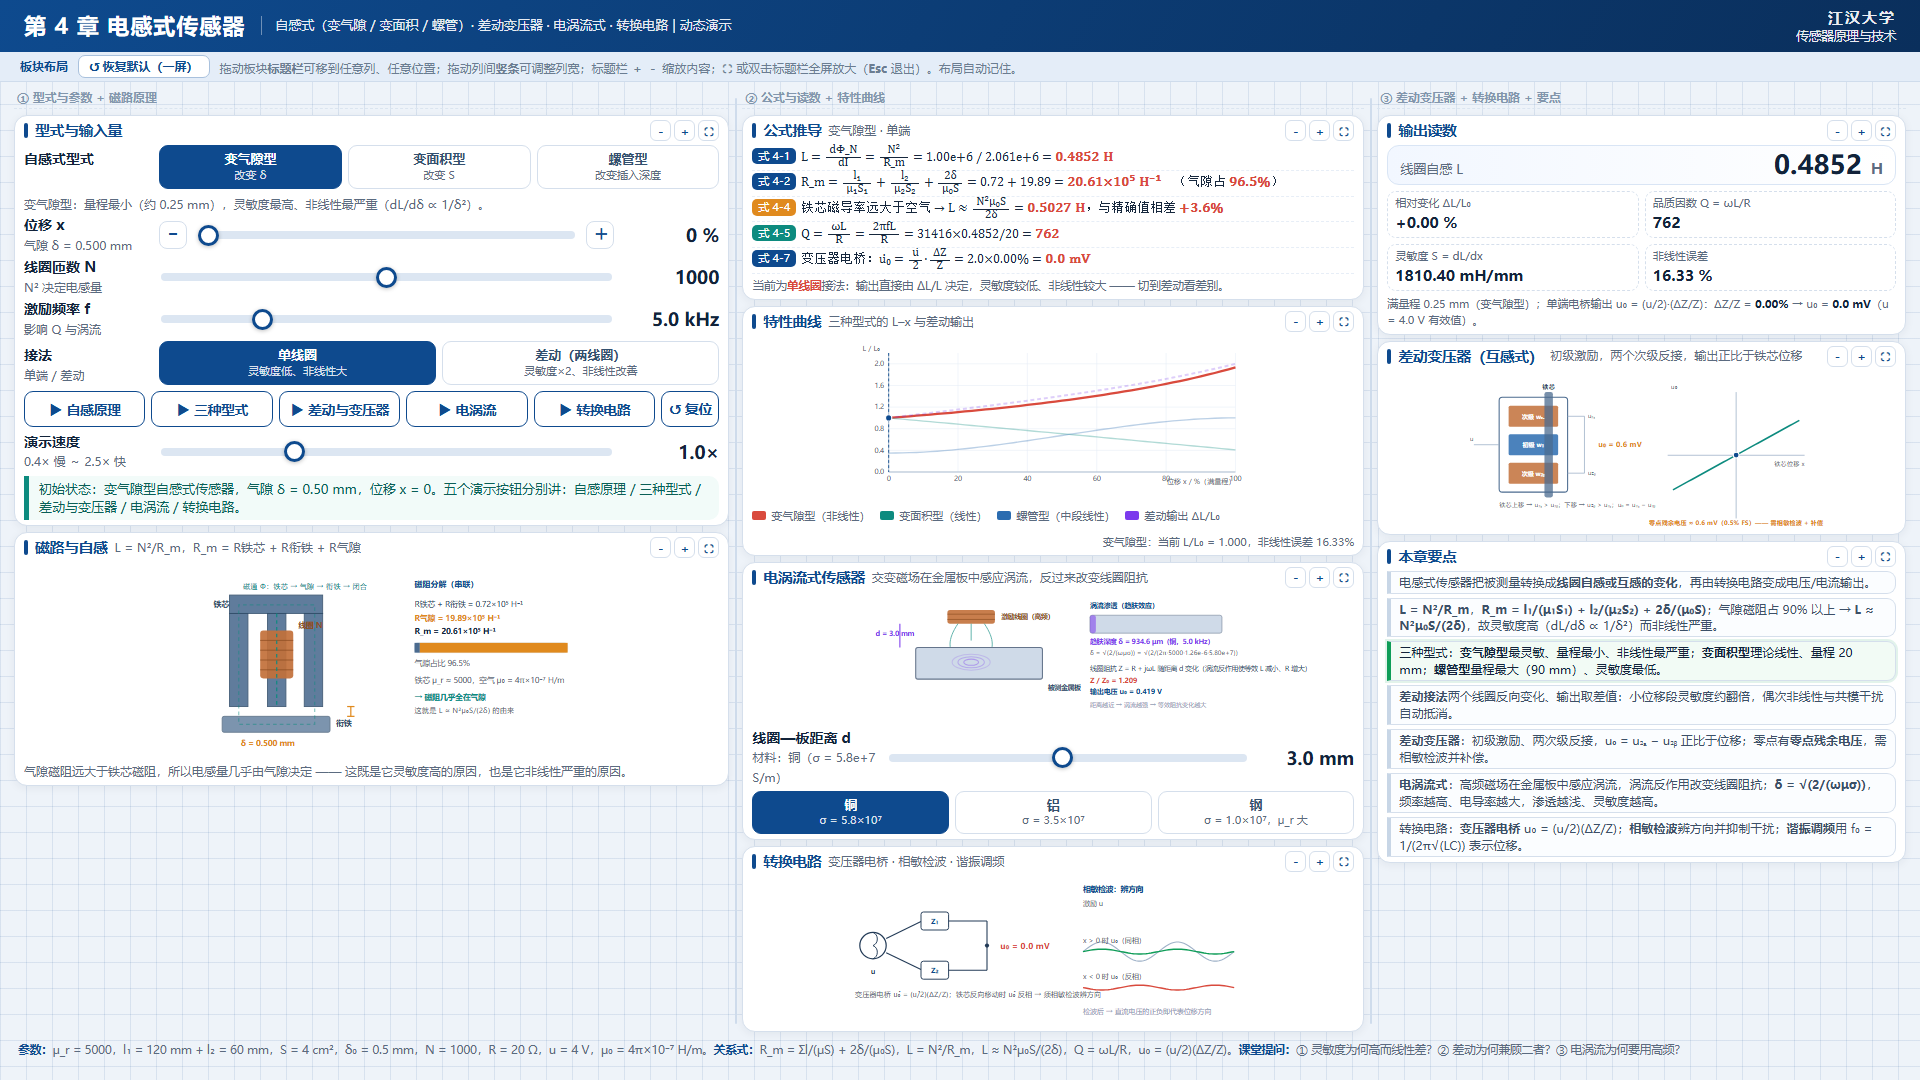
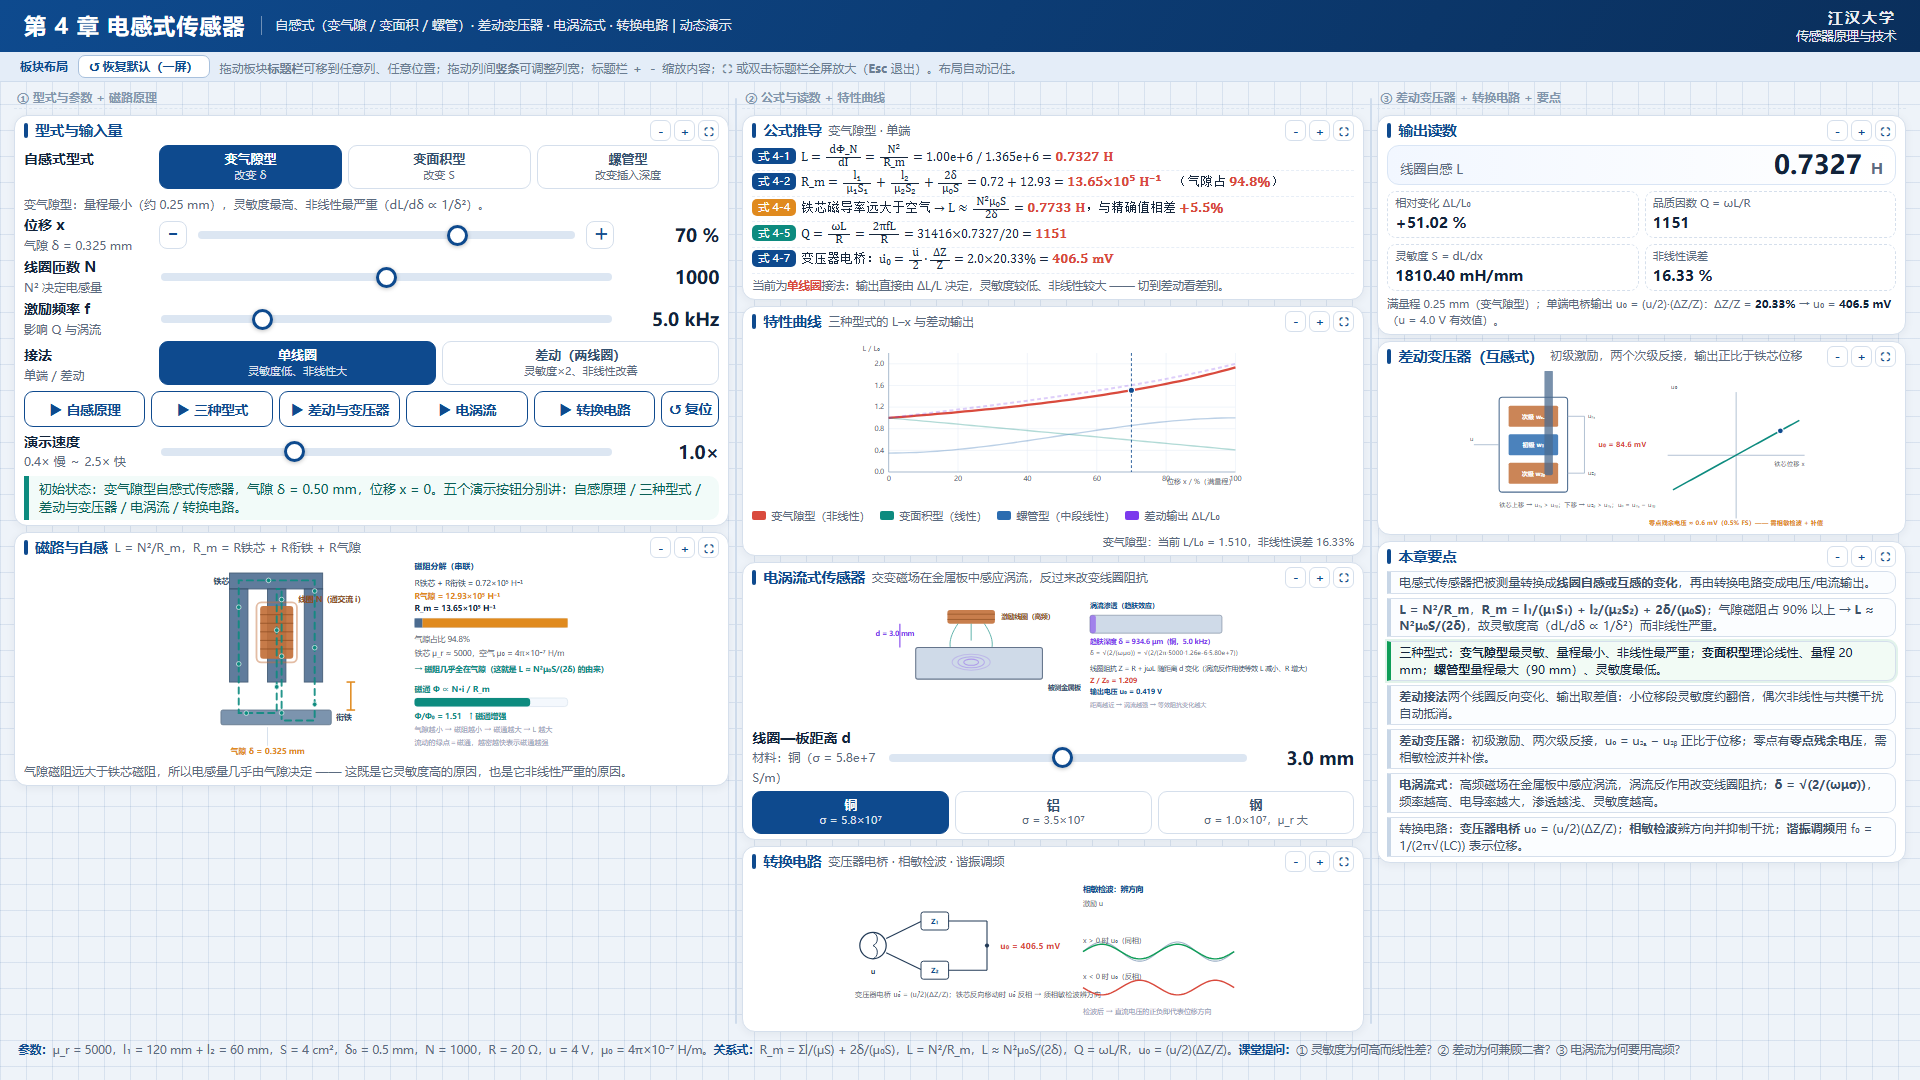
第4章：磁路与自感面板重做——磁通闭合回路流动动画（虚线+粒子）、衔铁行程放大约6倍、新增磁通量指示条，演示旁白同步

diff --git a/传感器原理及检测技术/第4章-电感式传感器-动态演示.html b/传感器原理及检测技术/第4章-电感式传感器-动态演示.html
@@ -233,30 +233,32 @@
       <svg id="mag" viewBox="0 0 700 320" role="img" aria-label="自感式传感器磁路示意">
         <!-- 变气隙型 -->
         <g id="stGap">
-          <rect x="118" y="54" width="152" height="30" fill="var(--iron)" opacity=".88" stroke="#2f4b68" stroke-width="1.5"/>
-          <rect x="118" y="84" width="30" height="152" fill="var(--iron)" opacity=".88" stroke="#2f4b68" stroke-width="1.5"/>
-          <rect x="180" y="84" width="30" height="152" fill="var(--iron)" opacity=".88" stroke="#2f4b68" stroke-width="1.5"/>
-          <rect x="240" y="84" width="30" height="152" fill="var(--iron)" opacity=".88" stroke="#2f4b68" stroke-width="1.5"/>
-          <text x="92" y="74" font-size="12.5" font-weight="700" fill="#2f4b68">铁芯</text>
+          <!-- 铁芯：上轭 + 三条腿（腿下沿 y=196，衔铁在其下方随气隙移动） -->
+          <rect x="118" y="18" width="152" height="26" fill="var(--iron)" opacity=".88" stroke="#2f4b68" stroke-width="1.5"/>
+          <rect x="118" y="44" width="30" height="152" fill="var(--iron)" opacity=".88" stroke="#2f4b68" stroke-width="1.5"/>
+          <rect x="180" y="44" width="30" height="152" fill="var(--iron)" opacity=".88" stroke="#2f4b68" stroke-width="1.5"/>
+          <rect x="240" y="44" width="30" height="152" fill="var(--iron)" opacity=".88" stroke="#2f4b68" stroke-width="1.5"/>
+          <text x="92" y="36" font-size="12.5" font-weight="700" fill="#2f4b68">铁芯</text>
+          <!-- 线圈（套在中腿）＋ 激励脉冲 -->
+          <rect id="coilPulse" x="162" y="66" width="66" height="98" rx="8" fill="none" stroke="var(--cu)" stroke-width="3" opacity="0"/>
           <g id="coilGap">
-            <rect x="168" y="112" width="54" height="78" rx="5" fill="var(--cu)" opacity=".92"/>
+            <rect x="168" y="72" width="54" height="86" rx="5" fill="var(--cu)" opacity=".92"/>
+            <line x1="168" y1="86" x2="222" y2="86" stroke="#8c4d22" stroke-width="1.2"/>
+            <line x1="168" y1="100" x2="222" y2="100" stroke="#8c4d22" stroke-width="1.2"/>
+            <line x1="168" y1="114" x2="222" y2="114" stroke="#8c4d22" stroke-width="1.2"/>
             <line x1="168" y1="128" x2="222" y2="128" stroke="#8c4d22" stroke-width="1.2"/>
-            <line x1="168" y1="144" x2="222" y2="144" stroke="#8c4d22" stroke-width="1.2"/>
-            <line x1="168" y1="160" x2="222" y2="160" stroke="#8c4d22" stroke-width="1.2"/>
-            <line x1="168" y1="176" x2="222" y2="176" stroke="#8c4d22" stroke-width="1.2"/>
+            <line x1="168" y1="142" x2="222" y2="142" stroke="#8c4d22" stroke-width="1.2"/>
           </g>
-          <text x="230" y="108" font-size="12.5" font-weight="700" fill="#8c4d22">线圈 N</text>
-          <rect id="armGap" x="106" y="249" width="176" height="26" rx="3" fill="var(--iron)" opacity=".72" stroke="#2f4b68" stroke-width="1.5"/>
-          <text x="292" y="267" font-size="12.5" font-weight="700" fill="#2f4b68">衔铁</text>
-          <!-- 气隙标注 -->
-          <line id="gapDim" x1="316" y1="236" x2="316" y2="249" stroke="var(--gapm)" stroke-width="2"/>
-          <line x1="310" y1="236" x2="322" y2="236" stroke="var(--gapm)" stroke-width="2"/>
-          <line id="gapDimB" x1="310" y1="249" x2="322" y2="249" stroke="var(--gapm)" stroke-width="2"/>
-          <text id="gapTxt" x="180" y="300" text-anchor="middle" font-size="12.5" font-weight="700" fill="var(--gapm)">气隙 δ = 0.500 mm</text>
-          <!-- 磁通路径 -->
-          <path id="fluxPath" d="M195 84 V236" stroke="var(--flux)" stroke-width="2" stroke-dasharray="6 5" fill="none" opacity=".95"/>
-          <path id="fluxPath2" d="M195 262 H133 V70 H257 V262 H195" stroke="var(--flux)" stroke-width="2" stroke-dasharray="6 5" fill="none" opacity=".45"/>
-          <text x="140" y="44" font-size="12" fill="var(--flux)">磁通 Φ：铁芯 → 气隙 → 衔铁 → 闭合</text>
+          <text x="230" y="66" font-size="12.5" font-weight="700" fill="#8c4d22">线圈 N（通交流 i）</text>
+          <!-- 衔铁：随气隙上下移动（行程放大约 6 倍） -->
+          <rect id="armGap" x="104" y="204" width="180" height="24" rx="3" fill="var(--iron)" opacity=".72" stroke="#2f4b68" stroke-width="1.5"/>
+          <text id="armTxt" x="292" y="220" font-size="12.5" font-weight="700" fill="#2f4b68">衔铁</text>
+          <!-- 气隙尺寸 -->
+          <line id="gapDim" x1="316" y1="196" x2="316" y2="204" stroke="var(--gapm)" stroke-width="2.5"/>
+          <line id="gapTick1" x1="309" y1="196" x2="323" y2="196" stroke="var(--gapm)" stroke-width="2.5"/>
+          <line id="gapDimB" x1="309" y1="204" x2="323" y2="204" stroke="var(--gapm)" stroke-width="2.5"/>
+          <line id="gapLead" x1="180" y1="292" x2="180" y2="300" stroke="#c9d6e6" stroke-width="1.2"/>
+          <text id="gapTxt" x="180" y="314" text-anchor="middle" font-size="13" font-weight="700" fill="var(--gapm)">气隙 δ = 0.500 mm</text>
         </g>
         <!-- 变面积型 -->
         <g id="stArea" style="display:none">
@@ -303,19 +305,32 @@
           <text id="solTxt" x="338" y="134" font-size="12.5" font-weight="700" fill="var(--gapm)">x = 0</text>
           <text x="150" y="288" font-size="12" fill="#5b6b80">插入越深 → 磁路磁阻越小 → L 越大（中段线性最好）</text>
         </g>
-        <!-- 右侧：磁阻分解 -->
-        <g transform="translate(420,40)">
+        <!-- 磁通闭合回路（动画：流动虚线 + 移动粒子） -->
+        <path id="loopGap" d="" fill="none" stroke="var(--flux)" stroke-width="3.2" stroke-dasharray="10 8"
+              stroke-linecap="round" opacity=".9"/>
+        <path id="loopArea" d="" fill="none" stroke="var(--flux)" stroke-width="3.2" stroke-dasharray="10 8"
+              stroke-linecap="round" opacity=".9" style="display:none"/>
+        <path id="loopSol" d="" fill="none" stroke="var(--flux)" stroke-width="3.2" stroke-dasharray="10 8"
+              stroke-linecap="round" opacity=".9" style="display:none"/>
+        <g id="fluxDots"></g>
+        <!-- 右侧：磁阻分解 + 磁通量 -->
+        <g transform="translate(420,12)">
           <text x="0" y="0" font-size="13" font-weight="700" fill="#0e4a8e">磁阻分解（串联）</text>
-          <text id="rmFe" x="0" y="34" font-size="12.5" fill="#2f4b68">R铁芯 + R衔铁 = 0</text>
-          <text id="rmGap" x="0" y="56" font-size="12.5" font-weight="700" fill="var(--gapm)">R气隙 = 0</text>
-          <text id="rmTot" x="0" y="78" font-size="12.5" font-weight="700" fill="#12233a">R_m = 0</text>
-          <rect x="0" y="92" width="250" height="16" rx="5" fill="#f4f8fd" stroke="#d5dfec"/>
-          <rect id="barFe" x="0" y="92" width="0" height="16" fill="#4b6b8f"/>
-          <rect id="barGap" x="0" y="92" width="0" height="16" fill="var(--gapm)"/>
-          <text id="gapShare" x="0" y="130" font-size="12.5" fill="#5b6b80">气隙占比 —</text>
-          <text x="0" y="158" font-size="12.5" fill="#5b6b80">铁芯 μ_r ≈ 5000，空气 μ₀ = 4π×10⁻⁷ H/m</text>
-          <text x="0" y="186" font-size="12.5" font-weight="700" fill="var(--flux)">→ 磁阻几乎全在气隙</text>
-          <text x="0" y="206" font-size="12" fill="#5b6b80">这就是 L ≈ N²μ₀S/(2δ) 的由来</text>
+          <text id="rmFe" x="0" y="28" font-size="12.5" fill="#2f4b68">R铁芯 + R衔铁 = 0</text>
+          <text id="rmGap" x="0" y="48" font-size="12.5" font-weight="700" fill="var(--gapm)">R气隙 = 0</text>
+          <text id="rmTot" x="0" y="68" font-size="12.5" font-weight="700" fill="#12233a">R_m = 0</text>
+          <rect x="0" y="80" width="250" height="15" rx="5" fill="#f4f8fd" stroke="#d5dfec"/>
+          <rect id="barFe" x="0" y="80" width="0" height="15" fill="#4b6b8f"/>
+          <rect id="barGap" x="0" y="80" width="0" height="15" fill="var(--gapm)"/>
+          <text id="gapShare" x="0" y="118" font-size="12.5" fill="#5b6b80">气隙占比 —</text>
+          <text x="0" y="142" font-size="12.5" fill="#5b6b80">铁芯 μ_r ≈ 5000，空气 μ₀ = 4π×10⁻⁷ H/m</text>
+          <text x="0" y="168" font-size="12.5" font-weight="700" fill="var(--flux)">→ 磁阻几乎全在气隙（这就是 L ≈ N²μ₀S/(2δ) 的由来）</text>
+          <text x="0" y="200" font-size="13" font-weight="700" fill="var(--flux)">磁通 Φ ∝ N·i / R_m</text>
+          <rect x="0" y="210" width="250" height="14" rx="5" fill="#f4f8fd" stroke="#d5dfec"/>
+          <rect id="fluxBar" x="0" y="210" width="0" height="14" rx="5" fill="var(--flux)"/>
+          <text id="fluxTxt" x="0" y="244" font-size="12.5" font-weight="700" fill="var(--flux)">Φ/Φ₀ = 1.00</text>
+          <text x="0" y="266" font-size="11.5" fill="#94a3b8">气隙越小 → 磁阻越小 → 磁通越大 → L 越大</text>
+          <text x="0" y="286" font-size="11.5" fill="#94a3b8">流动的绿点＝磁通，越密越快表示磁通越强</text>
         </g>
       </svg>
       <div class="hint" id="magHint">气隙磁阻远大于铁芯磁阻，所以电感量几乎由气隙决定 —— 这既是它灵敏度高的原因，也是它非线性严重的原因。</div>
@@ -626,6 +641,90 @@
     return { skin:skin, k:k, dZ:dZ, u0:u0, sigma:sigma, mur:mur, mat:m };
   }
 
+  /* ============ 2b. 磁通流动动画 ============ */
+  var FLUX = { L:0, t:0, target:1, els:null, path:null };
+  /* 闭合磁通回路：中腿下行 → 穿气隙 → 衔铁 → 外腿 → 上轭 → 回中腿 */
+  function gapLoop(yArm){
+    var y1 = 196, yA = yArm + 5, yB = yArm + 17;
+    return 'M195 44 V' + y1 + ' L195 ' + yA + ' L133 ' + yA + ' L133 30 L257 30 L257 ' + yB +
+           ' L203 ' + yB + ' L203 ' + y1 + ' V44 Z';
+  }
+  function solLoop(yTop, depth){
+    var yb = yTop + depth - 6;
+    return 'M206 ' + (yTop - 6) + ' V' + yb + ' L180 ' + yb + ' L180 86 L240 86 L240 ' + yb +
+           ' L214 ' + yb + ' L214 ' + (yTop - 6) + ' Z';
+  }
+  function activeLoopEl(){
+    return S.type === 'solenoid' ? $('loopSol') : (S.type === 'area' ? $('loopArea') : $('loopGap'));
+  }
+  function setFluxPath(){
+    var yArm = parseFloat($('armGap').getAttribute('y')) || 204;
+    var yTop = parseFloat($('plunger').getAttribute('y')) || 70;
+    var depth = parseFloat($('plunger').getAttribute('height')) || 120;
+    $('loopGap').style.display  = (S.type === 'gap') ? '' : 'none';
+    $('loopArea').style.display = (S.type === 'area') ? '' : 'none';
+    $('loopSol').style.display  = (S.type === 'solenoid') ? '' : 'none';
+    var p = activeLoopEl();
+    p.setAttribute('d', S.type === 'solenoid' ? solLoop(yTop, depth) : gapLoop(S.type === 'area' ? 249 : yArm));
+    FLUX.path = p;
+    try { FLUX.L = p.getTotalLength(); } catch (e) { FLUX.L = 0; }
+  }
+  /* 相对磁通：Φ ∝ N·i/R_m，且 L = N²/R_m ⇒ Φ/Φ₀ = L/L₀ */
+  function fluxRatio(){
+    var L = selfL(S.type, S.x/100, S.N).L, L0 = selfL(S.type, 0, S.N).L;
+    return L0 > 0 ? L/L0 : 1;
+  }
+  function paintFluxGauge(){
+    var f = fluxRatio();
+    FLUX.target = f;
+    var w = Math.max(6, Math.min(250, f/2*250));
+    $('fluxBar').setAttribute('width', w.toFixed(1));
+    $('fluxTxt').textContent = 'Φ/Φ₀ = ' + f.toFixed(2) + (f > 1.02 ? '　↑ 磁通增强' : (f < 0.98 ? '　↓ 磁通减弱' : '　（基准）'));
+  }
+  function initFlux(){
+    var g = $('fluxDots'), html = '', i;
+    for (i = 0; i < 12; i++){
+      html += '<circle r="3.8" fill="#0d8b7f" stroke="#fff" stroke-width="1.1" opacity=".95"/>';
+    }
+    g.innerHTML = html;
+    FLUX.els = g.querySelectorAll('circle');
+    /* 先摆好初始位置，避免首帧之前粒子挤在原点 */
+    setFluxPath();
+    if (FLUX.path && FLUX.L > 0 && FLUX.path.getPointAtLength){
+      for (i = 0; i < FLUX.els.length; i++){
+        var pt0 = FLUX.path.getPointAtLength(i/FLUX.els.length*FLUX.L);
+        FLUX.els[i].setAttribute('cx', pt0.x.toFixed(1));
+        FLUX.els[i].setAttribute('cy', pt0.y.toFixed(1));
+      }
+    }
+  }
+  function runFlux(){
+    var last = performance.now();
+    (function loop(now){
+      var dt = Math.min(60, now - last); last = now;
+      var f = Math.max(0.15, Math.min(2.2, FLUX.target || 1));
+      var speed = 0.30 + 0.55*f;                       /* 磁通越大，流动越快 */
+      FLUX.t = (FLUX.t + dt*speed/1500) % 1;
+      if (FLUX.path){
+        FLUX.path.setAttribute('stroke-dashoffset', (-FLUX.t*FLUX.L*2).toFixed(1));
+        if (FLUX.els && FLUX.L > 0 && FLUX.path.getPointAtLength){
+          var n = FLUX.els.length, i, pt;
+          for (i = 0; i < n; i++){
+            pt = FLUX.path.getPointAtLength((((FLUX.t*1 + i/n) % 1) + 1) % 1 * FLUX.L);
+            FLUX.els[i].setAttribute('cx', pt.x.toFixed(1));
+            FLUX.els[i].setAttribute('cy', pt.y.toFixed(1));
+            FLUX.els[i].setAttribute('opacity', (0.55 + 0.4*Math.min(1, f/1.4)).toFixed(2));
+          }
+        }
+      }
+      /* 线圈激励脉冲：磁通越大越亮 */
+      var p = 0.5 + 0.5*Math.sin(now/420);
+      var c = $('coilPulse');
+      if (c) c.setAttribute('opacity', (0.06 + 0.30*p*Math.min(1.4, f)).toFixed(3));
+      requestAnimationFrame(loop);
+    })(performance.now());
+  }
+
   /* ============ 3. 主刷新 ============ */
   function paint(){
     var r = selfL(S.type, S.x/100, S.N);
@@ -666,14 +765,17 @@
     $('stArea').style.display = (S.type === 'area') ? '' : 'none';
     $('stSol').style.display = (S.type === 'solenoid') ? '' : 'none';
     if (S.type === 'gap'){
-      var gapPx = Math.max(3, Math.min(16, 16*(r.delta/CFG.d0)));   /* 视觉气隙高度 */
-      var yArm = 236 + gapPx, yArmB = yArm + 26;
+      /* 视觉气隙：8 ~ 66 px（放大约 6 倍，便于观察） */
+      var gapPx = 8 + 58*(r.delta/CFG.d0);
+      var yArm = 196 + gapPx, yArmB = yArm + 24;
       $('armGap').setAttribute('y', yArm.toFixed(1));
-      $('gapDim').setAttribute('y1', '236'); $('gapDim').setAttribute('y2', yArm.toFixed(1));
+      $('armTxt').setAttribute('y', (yArm + 16).toFixed(1));
+      $('gapDim').setAttribute('y1', '196'); $('gapDim').setAttribute('y2', yArm.toFixed(1));
+      $('gapTick1').setAttribute('y1', '196'); $('gapTick1').setAttribute('y2', '196');
       $('gapDimB').setAttribute('y1', yArm.toFixed(1)); $('gapDimB').setAttribute('y2', yArm.toFixed(1));
-      $('gapTxt').setAttribute('y', (yArmB + 22).toFixed(1));
-      $('gapTxt').textContent = 'δ = ' + (r.delta*1000).toFixed(3) + ' mm';
-      $('fluxPath2').setAttribute('d', 'M195 ' + (yArm + 13).toFixed(0) + ' H133 V70 H257 V' + (yArm + 13).toFixed(0) + ' H195');
+      $('gapLead').setAttribute('y1', (yArmB + 4).toFixed(1));
+      $('gapLead').setAttribute('y2', '300');
+      $('gapTxt').textContent = '气隙 δ = ' + (r.delta*1000).toFixed(3) + ' mm';
     } else if (S.type === 'area'){
       var wOver = 152*(1 - 0.6*(S.x/100));
       wOver = Math.max(6, wOver);
@@ -693,6 +795,8 @@
       $('plungerTxt').setAttribute('y', '64');
       $('solTxt').textContent = 'x = ' + (S.x*0.9).toFixed(0) + ' mm';
     }
+    setFluxPath();
+    paintFluxGauge();
 
     /* --- 磁阻分解 --- */
     var R = reluc(r.delta, r.Sarea, S.N);
@@ -1026,8 +1130,9 @@
     say('【<b>自感式原理</b>】先看磁路：R_m = R铁芯 + R衔铁 + R气隙。铁芯 μ_r = 2000，空气 μ₀ 只有它的 1/2000，所以气隙磁阻占了 <b>' +
         (R.Rgap/R.Rm*100).toFixed(1) + '%</b>。L = N²/R_m = <b>' + r.L.toFixed(4) + ' H</b>。');
     if (!await sleep(3400, tok)) return;
-    say('① <b>衔铁靠近、气隙减小</b>（δ 从 ' + (CFG.d0*1000).toFixed(2) + ' mm → ' + (CFG.dMin*1000).toFixed(2) +
-        ' mm，行程 ' + ((CFG.d0-CFG.dMin)*1e6).toFixed(0) + ' μm）：气隙磁阻急剧下降 → L 迅速上升。注意 L 与 δ <b>成反比</b>，所以位移与输出<b>不是线性关系</b>。');
+    say('① 注意看：<b>绿色小点就是磁通</b>，它沿铁芯 → 气隙 → 衔铁 → 闭合回路不断流动，流动越快表示磁通越强。现在<b>衔铁靠近、气隙减小</b>（δ ' +
+        (CFG.d0*1000).toFixed(2) + ' mm → ' + (CFG.dMin*1000).toFixed(2) + ' mm，行程 ' + ((CFG.d0-CFG.dMin)*1e6).toFixed(0) +
+        ' μm）：气隙磁阻急剧下降 → 磁通变大 → L 迅速上升。注意 L 与 δ <b>成反比</b>，所以位移与输出<b>不是线性关系</b>。');
     if (!await tween(0, 80, 2600, setX, tok)) return;
     if (!await sleep(2200, tok)) return;
     var r2 = selfL('gap', 0.8, S.N);
@@ -1169,6 +1274,8 @@
   if (q.has('speed')){ SPEED = Math.max(0.4, Math.min(2.5, parseFloat(q.get('speed')) || 1));
     $('speed').value = SPEED; $('speedOut').textContent = SPEED.toFixed(1) + '×'; }
   paint();
+  initFlux();
+  runFlux();
   var AUTO = { '1':'self', '2':'types', '3':'diff', '4':'eddy', '5':'circ' };
   if (AUTO[q.get('auto')]) DEMOS[AUTO[q.get('auto')]].fn();
   document.addEventListener('keydown', function(e){
